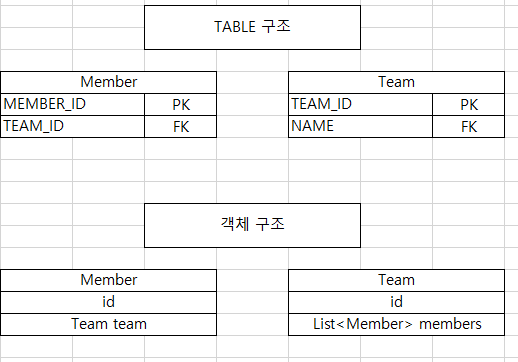
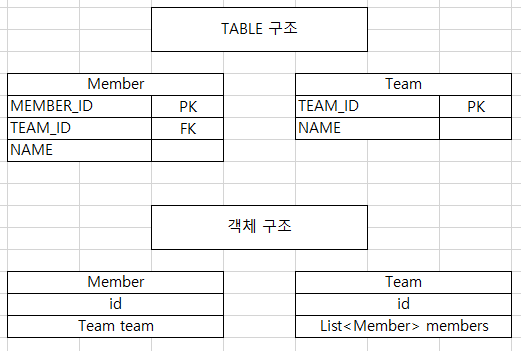
이미지 수정 / 컬럼명 소문자로 변경

diff --git a/issues/jpa/JPA_연관관계매핑.md b/issues/jpa/JPA_연관관계매핑.md
@@ -27,14 +27,14 @@
 ``` java
 public class Member {
     @Id
-    @Column(name = "MEMBER_ID")
+    @Column(name = "member_id")
     private String id;
 
     private String username;
 
     // 연관 관계 맵핑
     @ManyToOne
-    @JoinColumn(name="TEAM_ID")
+    @JoinColumn(name="team_id")
     private Team team;
 }
 ```
@@ -43,7 +43,7 @@ public class Member {
 public class Team {
 
     @Id
-    @Column(name = "TEAM_ID")
+    @Column(name = "team_id")
     private String id;
 
     private String name;
